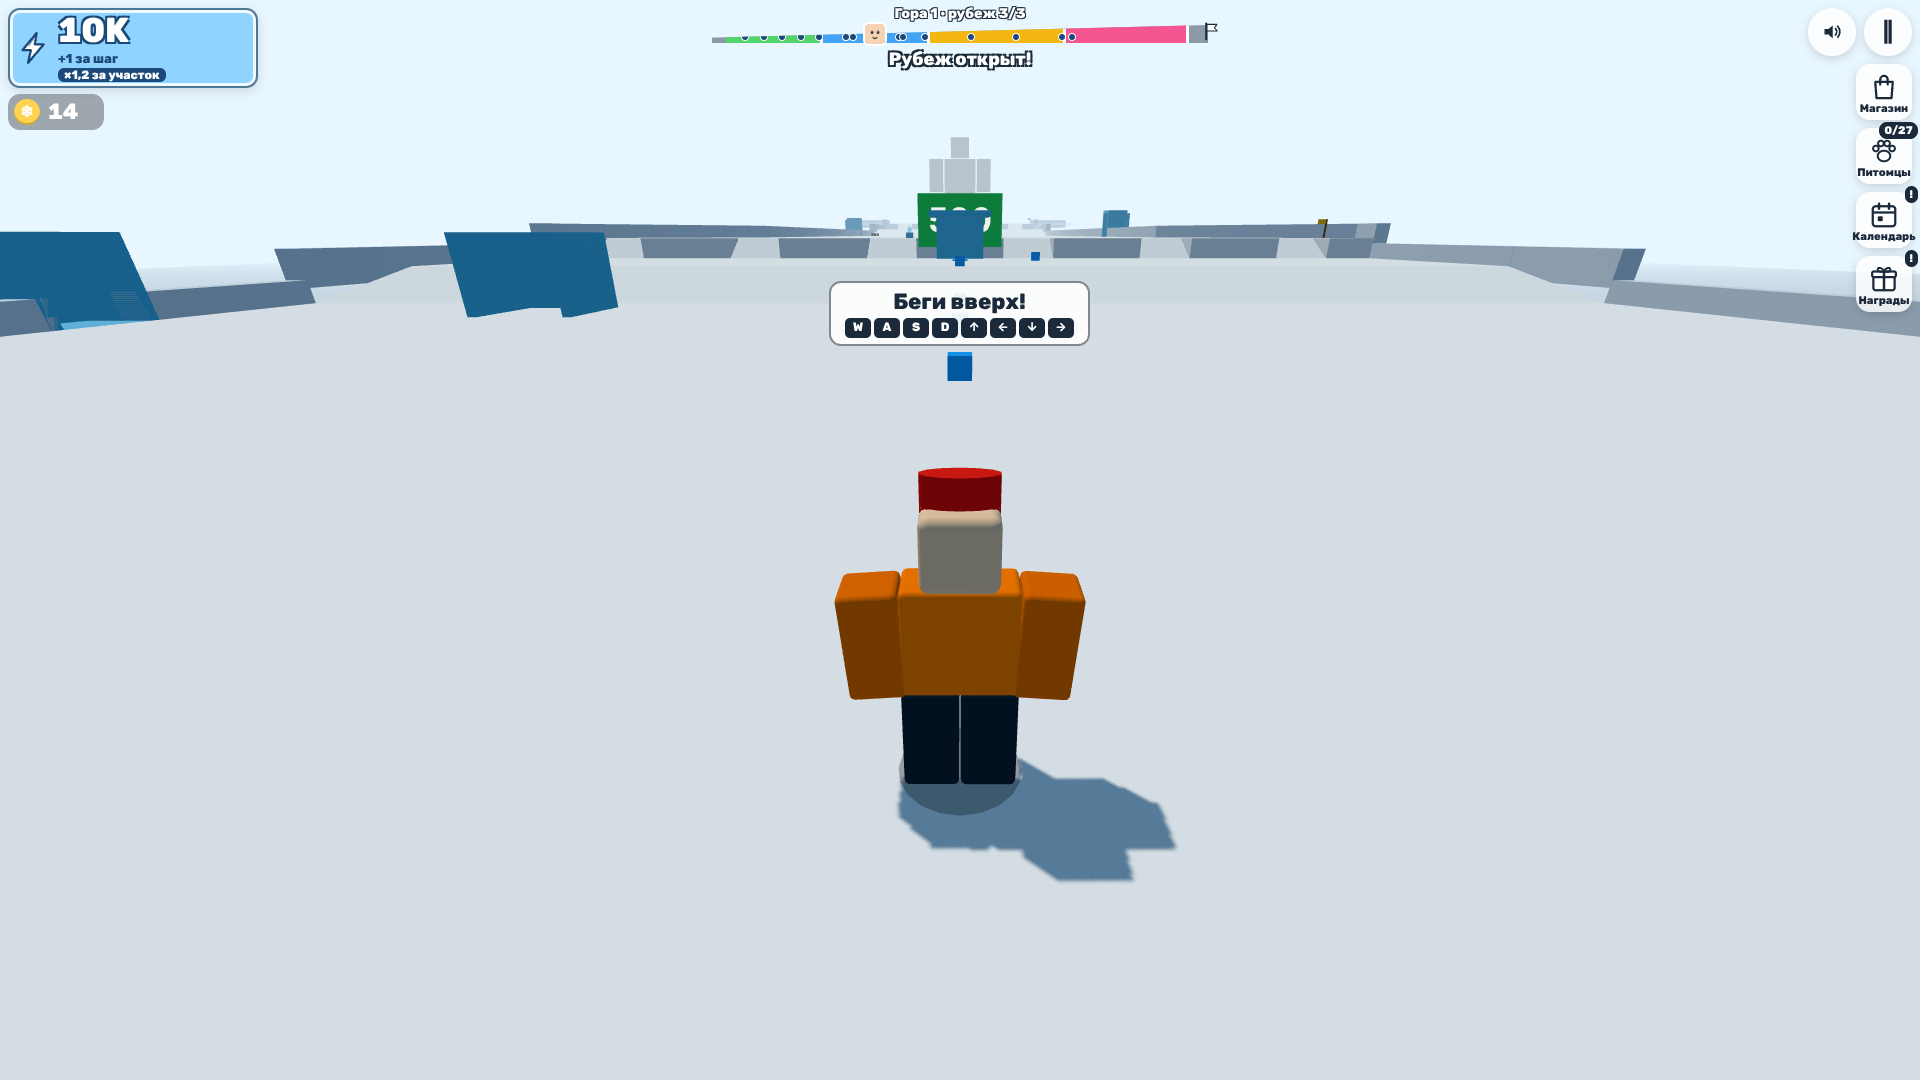
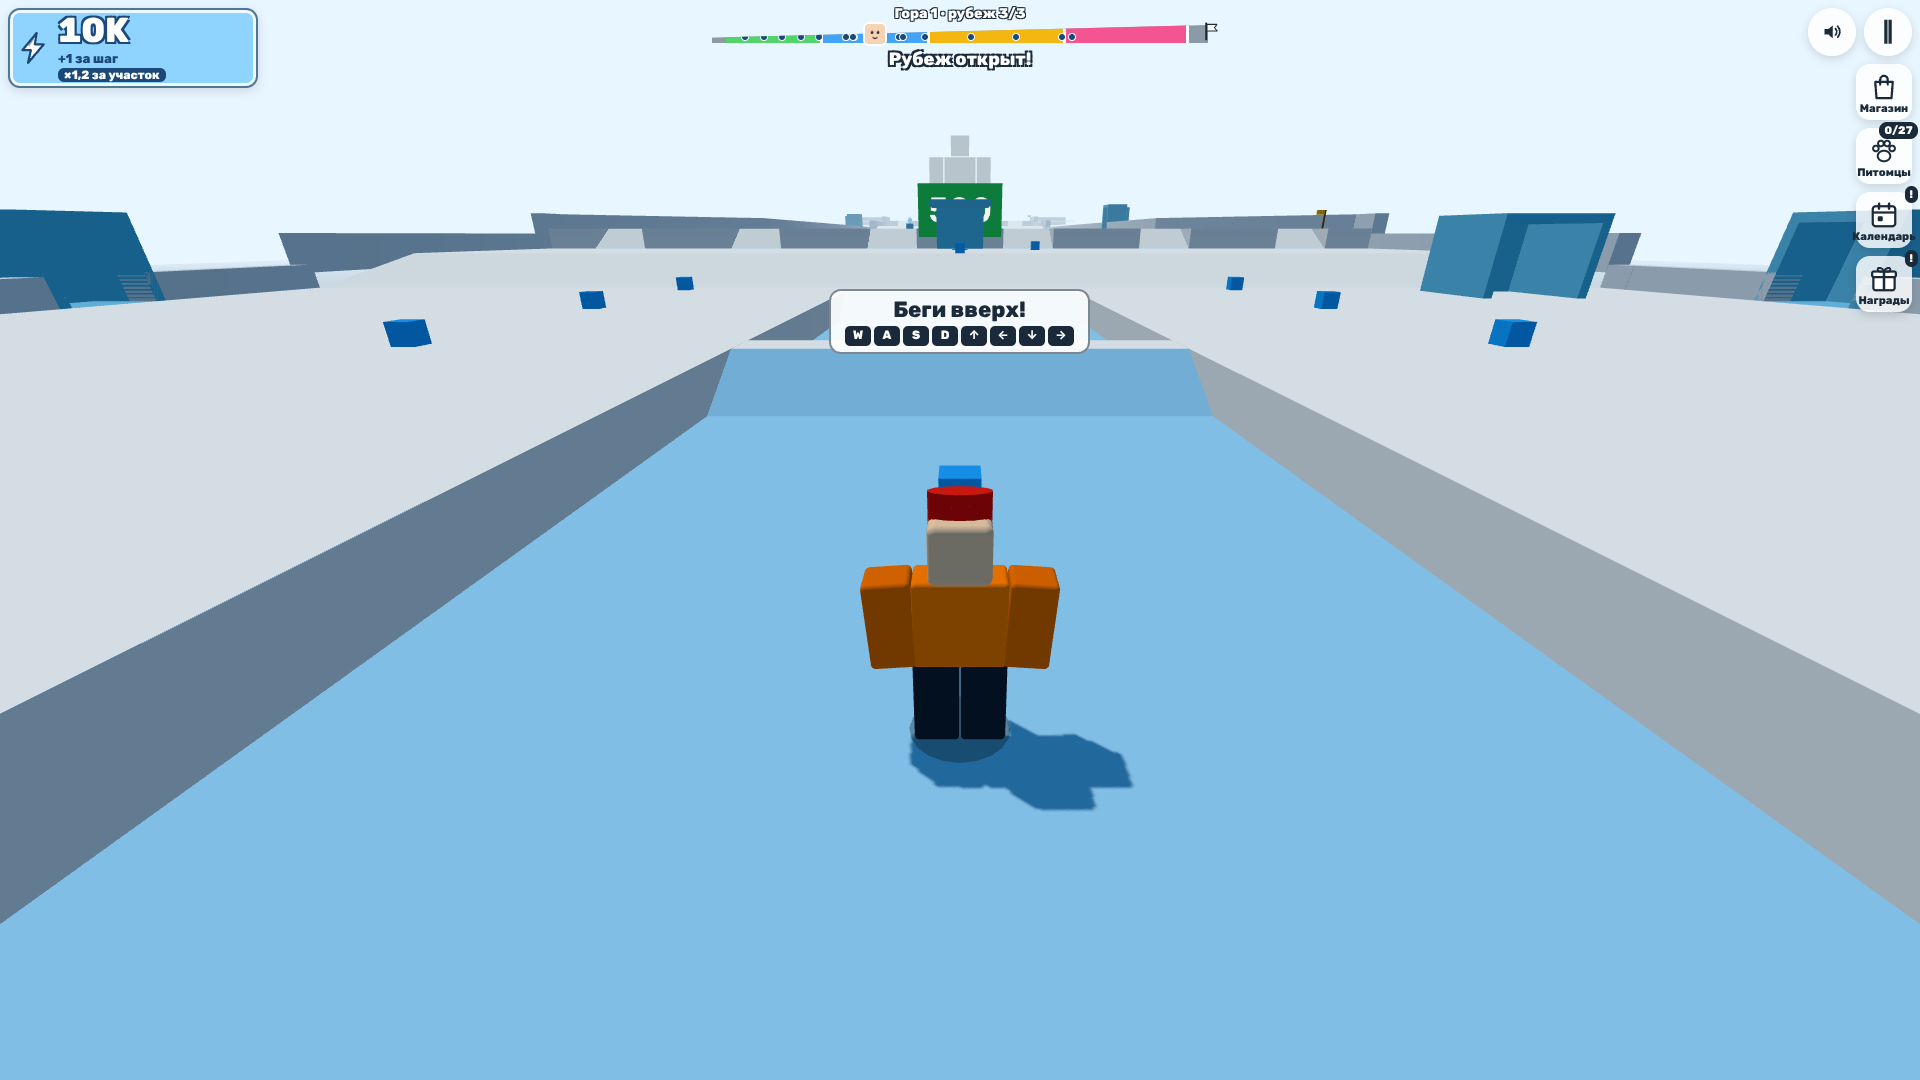
SP-05: развилки на 2 трассы — passes
- расщелина 30–60 глубиной 3, ямы ≤ 60 с горкой к обеим трассам, трассы по 44, 150–300 ед, сходятся за 40 до рубежа
- участки с развилкой не уже 2 × 44 + N; боты по boldShare; честность — без пути по дну
- Vitest 403/403, sim:balance 10/10, 10/10, 15/15, e2e sp-fork 3/3, rg-sectors 3/3, широкий набор 31/31; великан первой минуты 73,9 с (FM 72,8)

Claude-Session: https://claude.ai/code/session_01MjGxzPesTLqozMdbKebqkx

diff --git a/progress.md b/progress.md
@@ -42,6 +42,14 @@
 
 ## Записи
 
+### 2026-10-13 · SP-05 · развилки на 2 трассы
+- Сделано: развилка `split` вместо утёса — две трассы по 44 ед, между ними расщелина 30 / 36 / 44 / 52 / 60 (по горам) глубиной 3: ямы не длиннее 60 с ровным дном, горка 6 ед вдоль бега и мостик 4 ед наверху к обеим трассам, 3 подарка на дне, полы трасс у кромки уходят до дна; длина 150–300, трассы сходятся не ближе 40 ед к рубежу и до подъёма к нему; начинается за раструбом ширины (пол раструба — одна плита поперёк, иначе начало расщелины накрыто — нашёл e2e, валидатор и Vitest теперь это ловят). Участки с развилкой не уже 2 × 44 + N — 124 / 132 / 140 / 148 (правило 19.3, таблица 19.2 обновлена). Горка, трамплин, уступ-утёс смелой трассы, подарки и трамплины перед пропастью — от середины трассы; тоннель — от кромки расщелины; грот с сундуком — у края за смелой трассой внутри развилки (не на горбе); скалы 19.2 на развилке — на свободном снегу за трассой; запас на приземление перед утёсом для `split` не нужен — развилка сразу за пропастью. Честность — дно расщелины не путь к укрытию (обход концов); боты не бегут по расщелине, трассу выбирают по `boldShare` 0,5 (на поле полосы не симметричны из-за скал — доля переносится внутрь нужной стороны, то же для тоннеля); первый грот участка — без сундука
+- Тесты: `npm run typecheck` — ок; `npm test` — 403 прошло, 0 упало (новый `tests/level/fork.test.ts` — 13: спецификация, по каждой горе трассы ≥ 44 в каждой точке, расщелина нужной ширины и глубины, путь наверх ≤ 60, стенки до дна, открыта с начала, подарки на дне; со дна выбегает за 4 с без respawn; боты при `boldShare` 1 / 0 — все на смелой / все на спокойной); `sim:balance` — 10/10, 10/10, 15/15; e2e: `sp-fork.spec.ts` — 3 прошло (обе трассы до рубежа 2 без падений, другая трасса в кадре, со дна за ≤ 4 с, «Две дороги» только после 2 с стоянки; скриншот `docs/evidence/sp/fork_m1_1920x1080_ru.png`), `rg-sectors` — 3, широкий набор (первая минута, лавина, дизайн, поле, камера, производительность, тоннель, горб, пропасть, рубежи, perf, разгон) — 31 прошло; первая минута: рубеж «50» 11,6 с (FM 12,0), «Уф, успел!» 20,2 (19,2), великан 73,9 (72,8); draw calls 31–38
+- Данные: `pace/open/worlds-spec.json` — `forkSplit` (3 / 60 / 40 / 3), развилки 17.1 — объекты `split`, ширины участков с развилкой; `pace/open/bots.json` — `boldShare` 0,5; docs: 01a 19.2 (таблица), 19.3 (данные), допущение 79; e2e-маршруты — по серединам трасс из данных (`forkLaneX`)
+- Разведка: развилка была утёсом-коробкой и «полосой» ±16 в генераторе, валидаторе, ботах, кадрах и тестах; минимальный путь — тот же сегмент `fork` с `kind: split`, внутренний край и середина трассы как две переменные вместо констант, расщелина — вырез полов участка и ямы обычными `floor`/`ramp`, обход — через уже существующий обход утёса в `groundPath`
+- Дальше: SP-06 (зона великана)
+- Вопросы: нет новых (горе 10 — три развилки, а не две: тоннель и горб участка 3 стоят на развилке, допущение 79)
+
 ### 2026-10-12 23:32 · SP-04 · ширина склона по участкам
 - Сделано: ширины 100–220 и зоны великана 160–200 по 01a 19.2; раструб 40 ед от верха проходов рубежа (`taper`: пол шире, снег-клин по краю, невидимая стенка над ним); бортики, стенка, лавина, ком, декор, флажки, стрелка, кадр грота — по ширине в точке z (`level.halfAt`); проходов карниза — ближайшее целое к ширине / 30 (3–7); цифры рубежа 8 на поле, 6 на остальных; гроты-скалы 12 × 12 (вход со стороны лагеря) посередине половины участка шире 120 каждые 2 × `shelterEvery`, минимум одна, на развилке — с трассой; боты — полосы на ширине − 20 (`pace/open/bots.json`), смену полосы ведут вдоль края раструба, в скалу и из неё — через вход; валидатор — грунт по проходам каждого рубежа, честность из середины и с обоих краёв. Первая минута горы 1 на секундах FM (01 20.4, `nearRun`): ряд первой лавины — скалы у трасс развилки, гроты с дорожкой под рубежами 2–3 и перед великаном — навесы у бега (бока открыты, выход сразу к проходу); первый грот участка — по наименьшему z, яйцо в скале — у задней стенки; подарки полёта с горба — над серединой горба
 - Тесты: `npm run typecheck` — ок; `npm test` — 390 прошло, 0 упало (новый `tests/level/width.test.ts` — 17: ширина пола и ограды в каждой точке, раструбы монотонно за 40, щелей нет, скалы на участках шире 120, проходы, цифры, честность, полосы ботов и ни одного бота сквозь скалу, ряд первой лавины ≤ 30 ед от трасс); `sim:balance` — classic 10/10, fast 10/10, open 15/15; e2e (open): `sp-field.spec.ts` — 2 прошло (с края поля горы 1 в укрытие 10 из 10; бортики у героя посреди поля вне кадра; скриншот `docs/evidence/sp/field_m1_1920x1080_ru.png`), `fm-bounds.spec.ts` — 3 прошло, `perf.spec.ts` — 2 (draw calls 31–38 в 9 точках гор 1, 5, 10), `open-first-minute.spec.ts` — 3 (под нагрузкой двух воркеров: рубеж 2 — 38,8 с, великан — 73,4 с при FM 72,8), плюс `open-avalanche`, `open-ridge`, `sp-speed`, `sp-camera`, `fm-camera`, `rg-hump`, `rg-events` — всего в наборе 29, все зелёные после правок

diff --git a/docs/evidence/sp/perf.md b/docs/evidence/sp/perf.md
@@ -4,12 +4,12 @@
 
 | Гора | Точка | Draw calls | Треугольники |
 |---|---|---|---|
-| 1 slope | подножие | 33 | 53314 |
-| 1 slope | рубеж 2 | 35 | 52880 |
-| 1 slope | начало зоны великана | 36 | 52022 |
-| 5 canyon | подножие | 31 | 61490 |
-| 5 canyon | рубеж 2 | 35 | 62664 |
-| 5 canyon | начало зоны великана | 37 | 60234 |
-| 10 stars | подножие | 33 | 76454 |
-| 10 stars | рубеж 2 | 36 | 76812 |
-| 10 stars | начало зоны великана | 38 | 74146 |
+| 1 slope | подножие | 33 | 53866 |
+| 1 slope | рубеж 2 | 35 | 53432 |
+| 1 slope | начало зоны великана | 36 | 52190 |
+| 5 canyon | подножие | 31 | 61922 |
+| 5 canyon | рубеж 2 | 35 | 63132 |
+| 5 canyon | начало зоны великана | 37 | 60342 |
+| 10 stars | подножие | 33 | 76658 |
+| 10 stars | рубеж 2 | 36 | 77364 |
+| 10 stars | начало зоны великана | 38 | 74194 |
